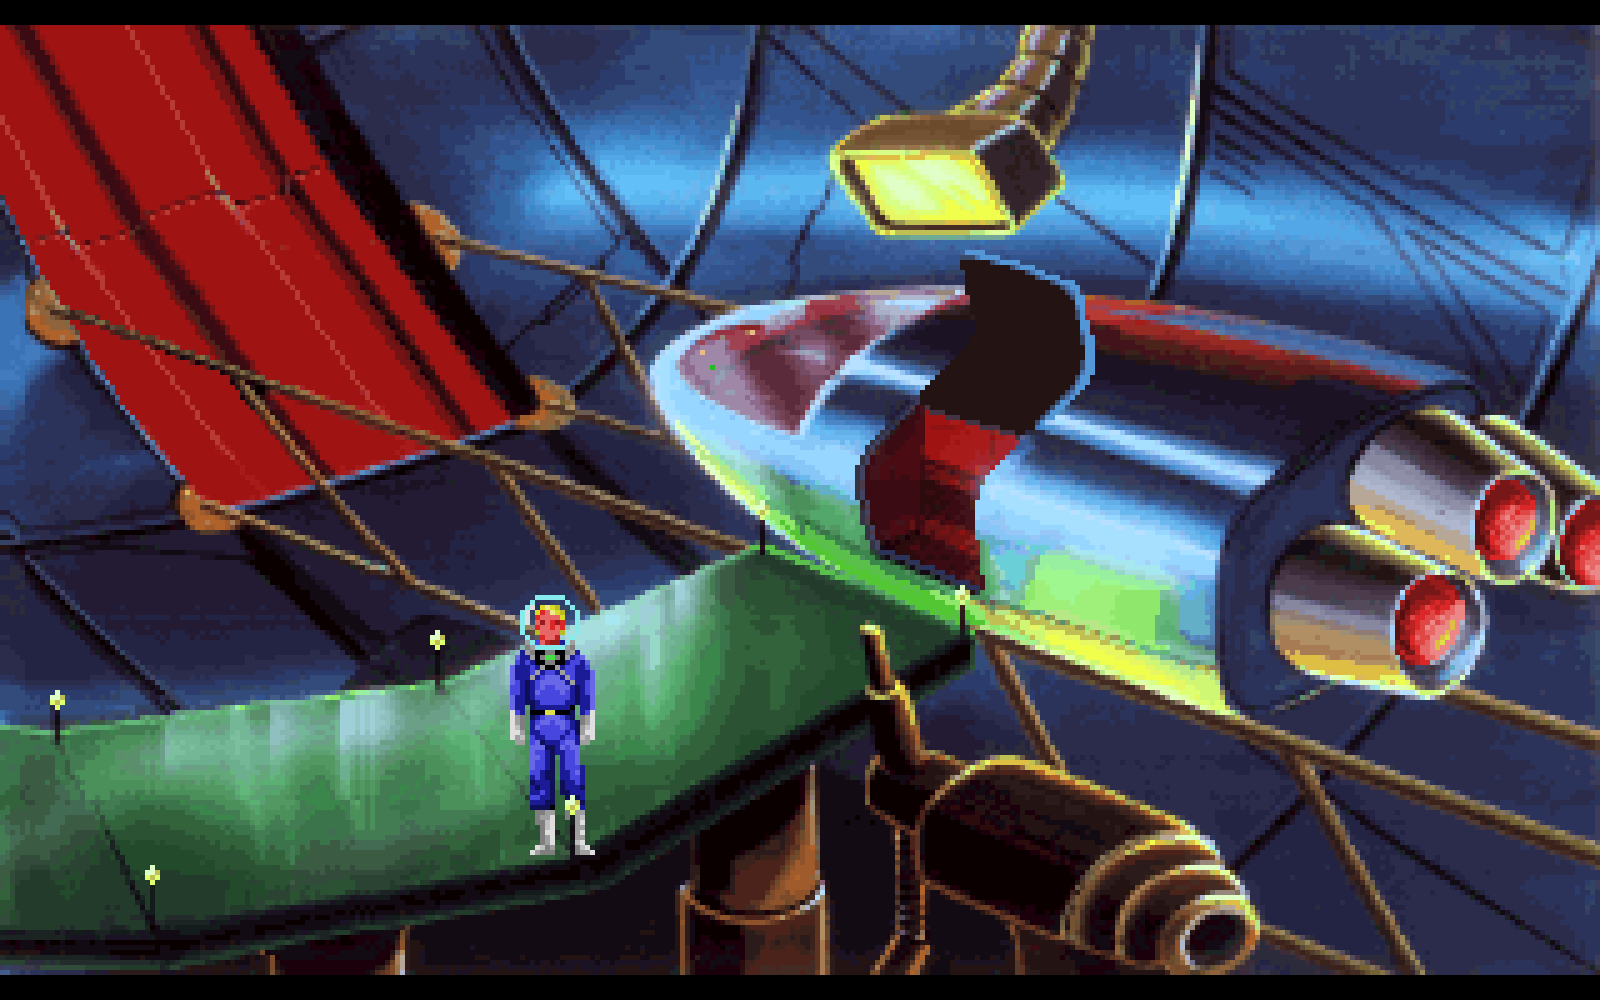
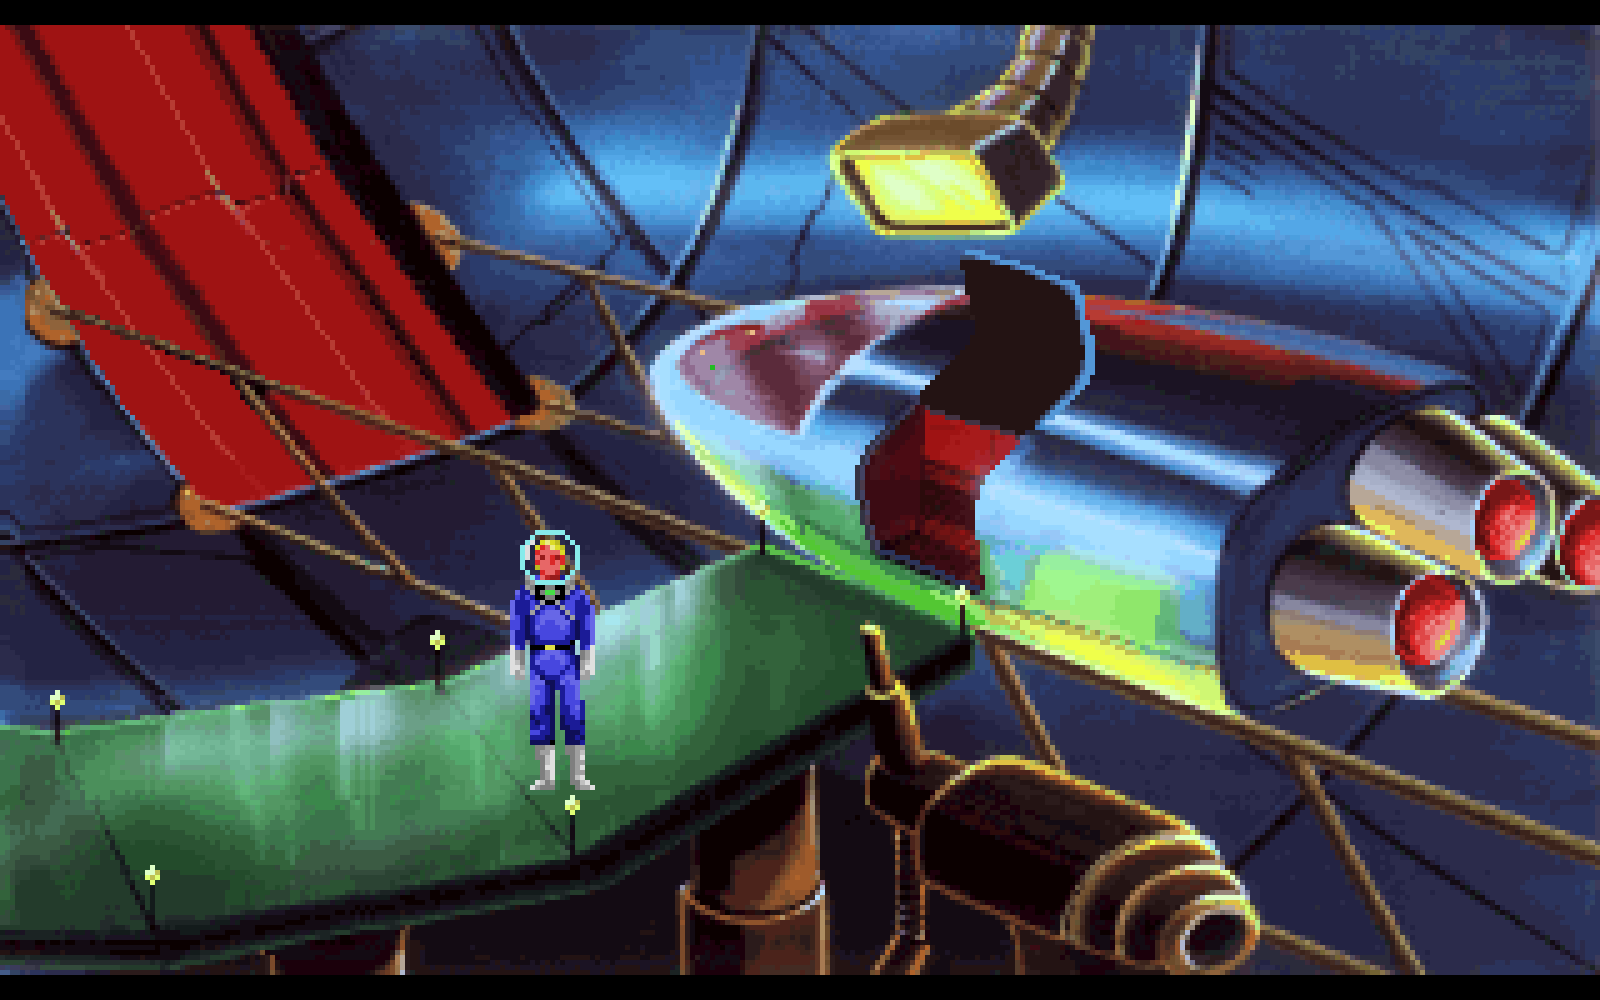
Put Roger where he can actually stand
Deltaur no longer shows Roger, Tiny's is the real lot (room 40), the
ending is the moment with no text on screen. Roger moved to spots he
can actually walk to in the archive, pod bay and desert. Unstaged
actors are parked below the picture so the game can't show them again.

The version info panel only repeated the caption, so it's gone and the
screen takes its space.

Changed region(s): [[0.3125, 0.527, 0.375, 0.868]]

diff --git a/data.js b/data.js
@@ -8,30 +8,18 @@
 // approx: shown, but the capture is a stand-in; the text says why.
 // hidden: kept for when we find a copy, but left out of the site until then.
 export const ALL_VERSIONS = [
-  { id: "agi-pc-cga",   name: "PC CGA",        engine: "AGI", year: 1986, native: [320, 200], display: "cga15",
-    about: "Four colours, cyan and magenta. The cheapest way to play in 1986." },
-  { id: "agi-pc-herc",  name: "PC Hercules",   engine: "AGI", year: 1986, native: [640, 400], display: "hercules",
-    about: "Monochrome high-res, with colours turned into dither patterns." },
-  { id: "agi-pc-ega",   name: "PC EGA/Tandy",  engine: "AGI", year: 1986, native: [320, 200], display: "ega15",
-    about: "The reference version: 16 colours at 160x200, pixels doubled across." },
-  { id: "agi-atari-st", name: "Atari ST",      engine: "AGI", year: 1987, native: [320, 200], display: "15khz-tv",
-    about: "Same pictures, the ST's own palette for the 16 EGA colours." },
-  { id: "agi-amiga",    name: "Amiga",         engine: "AGI", year: 1987, native: [320, 200], display: "15khz-tv",
-    about: "Amiga palette and better music." },
-  { id: "agi-mac-bw",   name: "Macintosh B&W", engine: "AGI", year: 1987, native: [512, 342], frame: [512, 384], scale: 3, display: "mac",
-    about: "The original black-and-white Mac edition: each colour a dither pattern, at 3x2 Mac pixels per AGI pixel." },
-  { id: "agi-mac",      name: "Macintosh II",  engine: "AGI", year: 1988, native: [320, 200], frame: [320, 240], display: "mac",
-    about: "The 16-colour edition for the Mac II, with its own palette." },
-  { id: "agi-apple2gs", name: "Apple IIgs",    engine: "AGI", year: 1987, native: [320, 200], display: "tv",
-    about: "Its own palette and sampled sound; often called the best AGI port." },
-  { id: "sci-pc-ega",   name: "PC EGA",        engine: "SCI", year: 1991, native: [320, 200], display: "ega15",
-    about: "The remake for 16-colour machines: VGA art dithered down." },
-  { id: "sci-pc-vga",   name: "PC VGA",        engine: "SCI", year: 1991, native: [320, 200], display: "31khz",
-    about: "The 1991 remake: 256 colours, point-and-click interface." },
-  { id: "sci-amiga",    name: "Amiga",         engine: "SCI", year: 1992, native: [320, 200], display: "15khz-tv",
-    about: "The remake reduced to the Amiga's 32 colours." },
-  { id: "sci-mac",      name: "Macintosh",     engine: "SCI", year: 1992, native: [320, 200], frame: [320, 240], display: "mac",
-    about: "The VGA remake on colour Macs." },
+  { id: "agi-pc-cga",   name: "PC CGA",        engine: "AGI", year: 1986, native: [320, 200], display: "cga15" },
+  { id: "agi-pc-herc",  name: "PC Hercules",   engine: "AGI", year: 1986, native: [640, 400], display: "hercules" },
+  { id: "agi-pc-ega",   name: "PC EGA/Tandy",  engine: "AGI", year: 1986, native: [320, 200], display: "ega15" },
+  { id: "agi-atari-st", name: "Atari ST",      engine: "AGI", year: 1987, native: [320, 200], display: "15khz-tv" },
+  { id: "agi-amiga",    name: "Amiga",         engine: "AGI", year: 1987, native: [320, 200], display: "15khz-tv" },
+  { id: "agi-mac-bw",   name: "Macintosh B&W", engine: "AGI", year: 1987, native: [512, 342], frame: [512, 384], scale: 3, display: "mac" },
+  { id: "agi-mac",      name: "Macintosh II",  engine: "AGI", year: 1988, native: [320, 200], frame: [320, 240], display: "mac" },
+  { id: "agi-apple2gs", name: "Apple IIgs",    engine: "AGI", year: 1987, native: [320, 200], display: "tv" },
+  { id: "sci-pc-ega",   name: "PC EGA",        engine: "SCI", year: 1991, native: [320, 200], display: "ega15" },
+  { id: "sci-pc-vga",   name: "PC VGA",        engine: "SCI", year: 1991, native: [320, 200], display: "31khz" },
+  { id: "sci-amiga",    name: "Amiga",         engine: "SCI", year: 1992, native: [320, 200], display: "15khz-tv" },
+  { id: "sci-mac",      name: "Macintosh",     engine: "SCI", year: 1992, native: [320, 200], frame: [320, 240], display: "mac" },
 ];
 
 export const VERSIONS = ALL_VERSIONS.filter(v => !v.hidden);

diff --git a/style.css b/style.css
@@ -70,8 +70,8 @@ a { color: var(--e11); }
 .btn:active { transform: translate(4px, 3px); box-shadow: 4px 3px 0 var(--e0); }
 .btns { display: flex; flex-wrap: wrap; gap: 10px 18px; align-items: center; }
 
-/* viewer: scenes | screen | info, versions underneath */
-.viewer { grid-template-columns: 220px minmax(0, 760px) minmax(200px, 300px); grid-template-rows: minmax(0, auto) auto; gap: var(--gap) 30px; justify-content: center; align-content: center; }
+/* viewer: scenes | screen, versions underneath */
+.viewer { grid-template-columns: 220px minmax(0, min(960px, max(600px, (100vh - 372px) * 4 / 3))); grid-template-rows: minmax(0, auto) auto; gap: var(--gap) 30px; justify-content: center; align-content: center; }
 .scenes { display: flex; flex-direction: column; padding: 14px 0 10px; }
 .scenes .scroll { flex: 1; min-height: 0; }
 .scene { display: block; width: 100%; padding: 0 12px; white-space: nowrap; overflow: hidden; text-overflow: ellipsis; }
@@ -81,10 +81,11 @@ a { color: var(--e11); }
 .scene:hover:not([aria-current="true"]) { background: var(--e11); }
 
 .screenwin { display: flex; flex-direction: column; gap: 10px; padding-top: 6px; }
-.cap { display: flex; justify-content: space-between; gap: 12px; background: var(--e15); color: var(--e1); padding: 0 6px; }
+.cap { display: flex; justify-content: space-between; gap: 12px; white-space: nowrap; background: var(--e15); color: var(--e1); padding: 0 6px; }
 .cap #caption { overflow: hidden; text-overflow: ellipsis; white-space: nowrap; }
-.frame { overflow: auto; background: #000; max-height: calc(100vh - 360px); }
-.screen { position: relative; aspect-ratio: 4 / 3; width: 100%; }
+.frame { overflow: auto; background: #000; align-self: center; max-width: 100%; min-height: 0; }
+/* fitScreen() in app.js sizes the frame and screen in pixels. */
+.screen { position: relative; aspect-ratio: 4 / 3; }
 .layer { position: absolute; inset: 0; }
 /* The screen is always 4:3; a picture that isn't (a Mac's square pixels) is letterboxed on black. */
 .layer { background: var(--e0); }
@@ -99,13 +100,6 @@ a { color: var(--e11); }
 .drop span { display: grid; place-items: center; text-align: center; background: #0000aa99; border: 3px dashed var(--e14); color: var(--e14); }
 .dragging .drop { display: grid; }
 .sfoot { display: flex; justify-content: space-between; flex-wrap: wrap; gap: 12px; padding: 4px 0 8px; }
-
-.info .scroll { height: 100%; }
-.info h2 { font: inherit; color: var(--e14); margin: 0 0 6px; }
-.info p { margin: 0 0 10px; }
-.info dl { display: grid; grid-template-columns: auto 1fr; gap: 0 12px; margin: 0 0 10px; }
-.info dt { color: var(--e11); } .info dd { margin: 0; }
-.info .ab { border-top: 1px dashed var(--e3); padding-top: 8px; }
 
 .vers { grid-column: 1 / -1; }
 .vgrid { display: grid; grid-auto-flow: column; grid-auto-columns: 132px; gap: 10px; padding: 6px 2px 10px; }
@@ -134,7 +128,6 @@ a { color: var(--e11); }
   .viewer { grid-template-columns: minmax(0, 1fr); }
   .scenes .scroll { display: flex; overflow-x: auto; }
   .scene { width: auto; }
-  .frame { max-height: none; }
   .menubar .right { display: none; }
 }
 
@@ -167,4 +160,3 @@ button.close { z-index: 1; }
 .sl output { text-align: right; }
 .sl select { grid-column: 2 / -1; font: inherit; background: var(--e1); color: var(--e15); border: 0; }
 @media (max-width: 1100px) { .lab { grid-template-columns: minmax(0, 1fr); } .win.free { position: relative; left: auto !important; top: auto !important; width: auto; margin-bottom: 24px; } .freeview.on { display: grid; } }
-.info .approx { color: var(--e14); }

diff --git a/app.js b/app.js
@@ -67,12 +67,19 @@ function renderThumbs() {
   }));
 }
 
-function renderInfo() {
-  const show = v => `<h2>${v.engine} · ${v.name}</h2>
-    <dl><dt>Year</dt><dd>${v.year}</dd><dt>Engine</dt><dd>${v.engine}</dd><dt>Native</dt><dd>${v.native.join("x")}</dd></dl>
-    <p>${v.about}</p>${v.approx ? `<p class="approx">⚠ ${v.approx}</p>` : ""}`;
-  const A = VERSIONS[state.a], B = VERSIONS[state.b];
-  $("#info").innerHTML = show(A) + (state.compare ? `<div class="ab">${show(B)}</div>` : "");
+// The screen at 1x is as big as the window allows: its column's width, or less when the
+// height runs out (the grid squeezes the frame, which then overflows by that much). Zoom
+// keeps the frame that size and scrolls a bigger screen inside it.
+function fitScreen() {
+  const f = $("#frame"), sc = $("#screen"), win = f.parentElement, cs = getComputedStyle(win);
+  if (!win.clientWidth) return;  // viewer hidden; measured again when it's shown
+  const w0 = Math.floor(win.clientWidth - parseFloat(cs.paddingLeft) - parseFloat(cs.paddingRight));
+  f.style.width = sc.style.width = `${w0}px`; f.style.height = "";
+  const over = f.scrollHeight - f.clientHeight;
+  // A multiple of 4 so the height is a whole number too: a half pixel brings back scrollbars.
+  const w = Math.floor((over > 0 ? (sc.offsetHeight - over) * 4 / 3 : w0) / 4) * 4;
+  f.style.width = `${w}px`; f.style.height = `${w * 3 / 4}px`;
+  sc.style.width = `${w * state.zoom}px`;
 }
 
 function renderWall() {
@@ -94,7 +101,7 @@ function update() {
   document.querySelectorAll(".menu-btn").forEach(b => b.setAttribute("aria-pressed", b.dataset.view === state.view));
   document.body.classList.toggle("crt", state.crt && crtOK);
   document.body.classList.toggle("compare", state.compare);
-  $("#screen").style.width = `${state.zoom * 100}%`;
+  fitScreen();
   $("#screen").style.setProperty("--split", `${state.split}%`);
   $("#handle").hidden = !state.compare;
   $("#bSwap").hidden = !state.compare;
@@ -104,11 +111,11 @@ function update() {
   document.querySelectorAll("[data-zoom]").forEach(b => b.setAttribute("aria-pressed", +b.dataset.zoom === state.zoom));
   $("#caption").textContent = state.compare
     ? `${s.name} · A: ${A.engine} ${A.name} │ B: ${B.engine} ${B.name}`
-    : `${s.name} · ${A.engine} ${A.name}, ${A.year}`;
+    : `${s.name} · ${A.engine} ${A.name}, ${A.year} · ${A.native.join("×")}${A.approx ? ` · ⚠ ${A.approx}` : ""}`;
   if (state.view === "viewer") {
     loadLayer(layers[0], state.a);
     if (state.compare) loadLayer(layers[1], state.b);
-    renderScenes(); renderThumbs(); renderInfo();
+    renderScenes(); renderThumbs();
     document.querySelector(".thumb.a")?.scrollIntoView({ block: "nearest", inline: "nearest" });
   }
   if (state.view === "wall") renderWall();
@@ -204,7 +211,7 @@ document.addEventListener("keydown", e => {
 });
 
 let resizeTimer;
-window.addEventListener("resize", () => { clearTimeout(resizeTimer); resizeTimer = setTimeout(redrawCRT, 100); });
+window.addEventListener("resize", () => { fitScreen(); clearTimeout(resizeTimer); resizeTimer = setTimeout(redrawCRT, 100); });
 
 installCursor();
 initWindows();

diff --git a/index.html b/index.html
@@ -3,7 +3,7 @@
 <head>
 <meta charset="utf-8">
 <meta name="viewport" content="width=device-width, initial-scale=1">
-<title>Space Quest I, side by side</title>
+<title>Space Quest I versions</title>
 <meta name="theme-color" content="#0000AA">
 <link rel="stylesheet" href="style.css">
 </head>
@@ -13,7 +13,7 @@
   <button class="menu-btn" data-view="viewer"><span class="k">V</span>iewer</button>
   <button class="menu-btn" data-view="wall">The <span class="k">w</span>all</button>
   <button class="menu-btn" data-view="lab">CRT la<span class="k">b</span></button>
-  <span class="right">SPACE QUEST I · THE SARIEN ENCOUNTER · every version, side by side</span>
+  <span class="right">SPACE QUEST I · THE SARIEN ENCOUNTER</span>
   <button class="menu-btn" data-view="about"><span class="k">A</span>bout</button>
 </header>
 <div class="dropdown" id="dropdown" role="menu" hidden></div>
@@ -47,7 +47,6 @@
       </div>
     </section>
 
-    <aside class="win info"><span class="close">[<b>■</b>]</span><span class="wt">Version info</span><div class="scroll" id="info"></div></aside>
 
     <section class="win grey vers"><span class="close">[<b>■</b>]</span><span class="wt">Versions, in release order · drag one onto the screen to compare</span>
       <div class="scroll"><div class="vgrid" id="thumbs"></div></div>
@@ -88,7 +87,7 @@
 
   <section class="view freeview" id="v-about">
     <div class="win free" data-pos="6,6" style="--w: 44%"><div class="tbar"></div><button class="close">[<b>■</b>]</button><span class="wt">About</span>
-      <p>Sixteen scenes from <i>Space Quest I: The Sarien Encounter</i> (Sierra On-Line, 1986), captured the same way in every version of the AGI original and the 1991 SCI remake.</p>
+      <p>Seventeen scenes from <i>Space Quest I: The Sarien Encounter</i> (Sierra On-Line, 1986), captured the same way in every version of the AGI original and the 1991 SCI remake.</p>
       <p>Captures are scaled to 1600x1200 with nearest-neighbour pixels, which also corrects 320x200 to 4:3.</p>
       <p>Interface style after <a href="https://monkeyisland.pages.dev/" target="_blank" rel="noopener">The Secret of Monkey Island: all 13 versions side by side</a> by The Paninos off-line.</p>
     </div>

diff --git a/tools/capture/capture.py b/tools/capture/capture.py
@@ -349,8 +349,9 @@ def sci_objects(g):
 
 def read_state(g):
     if g.v["engine"] == "agi": return agi_state(g)
-    # y <= 0 puts the whole sprite above the picture (Roger parked at 0,0 in rooms he isn't in).
-    return {k: v for k, (_, v, visible) in sci_objects(g).items() if visible and v[4] > 0}
+    # y <= 0 puts the whole sprite above the picture (Roger parked at 0,0 in rooms he isn't in);
+    # y >= 1000 is where staging parks actors a scene leaves out (send can't take negatives).
+    return {k: v for k, (_, v, visible) in sci_objects(g).items() if visible and 0 < v[4] < 1000}
 
 
 def sci_apply(state, objs):
@@ -358,7 +359,9 @@ def sci_apply(state, objs):
     no script, then set the properties directly."""
     cmds = []
     for k, (a, _, visible) in objs.items():
-        if visible and k not in state: cmds += [f"send {a} setScript 0", f"send {a} setCycle 0", f"send {a} hide"]
+        # Some actors are shown again every frame (Roger), so move them below the picture too.
+        # Roger is parked even while hidden: a room can show him again once the game resumes.
+        if k not in state and (visible or k in ("ego#0", "egoHead#0")): cmds += [f"send {a} setScript 0", f"send {a} setCycle 0", f"send {a} hide", f"send {a} y 1000", f"send {a} startUpd"]
     for k, (view, loop, cel, x, y, z) in state.items():
         if k not in objs: continue  # the version doesn't have it (staged_shot says so)
         a = objs[k][0]

diff --git a/README.md b/README.md
@@ -1,4 +1,4 @@
-# Space Quest I, side by side
+# Space Quest I versions
 
 Twelve moments from Space Quest I, framed identically across every release. Static site, no build step.
 
